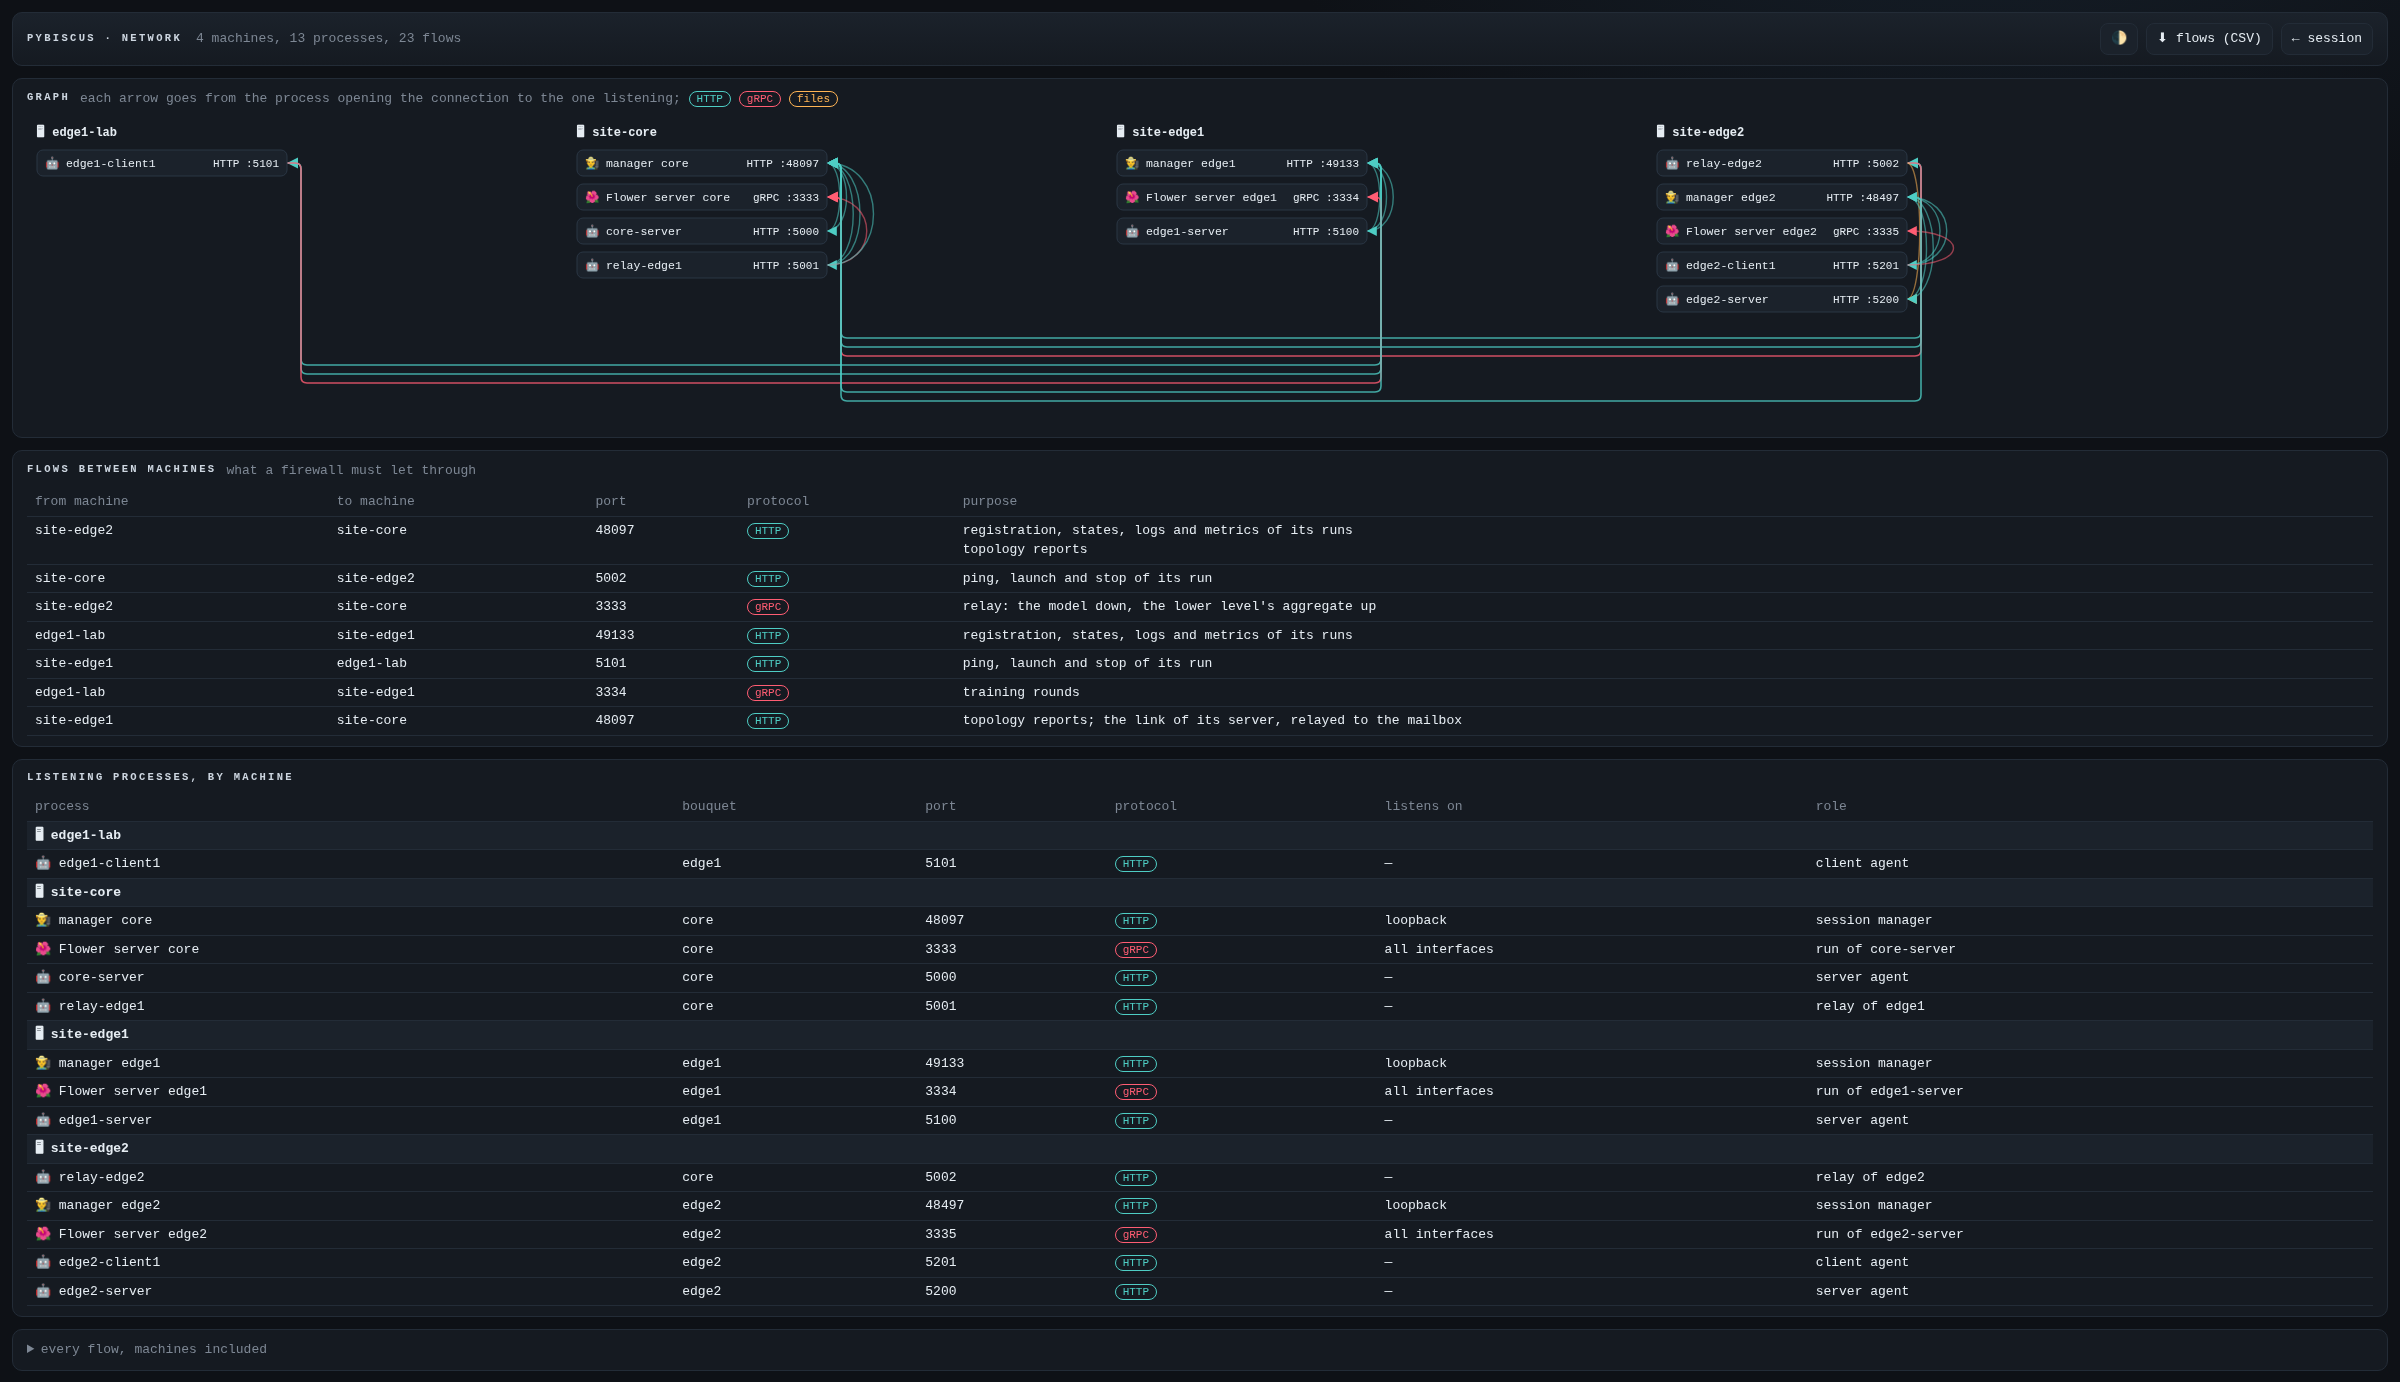
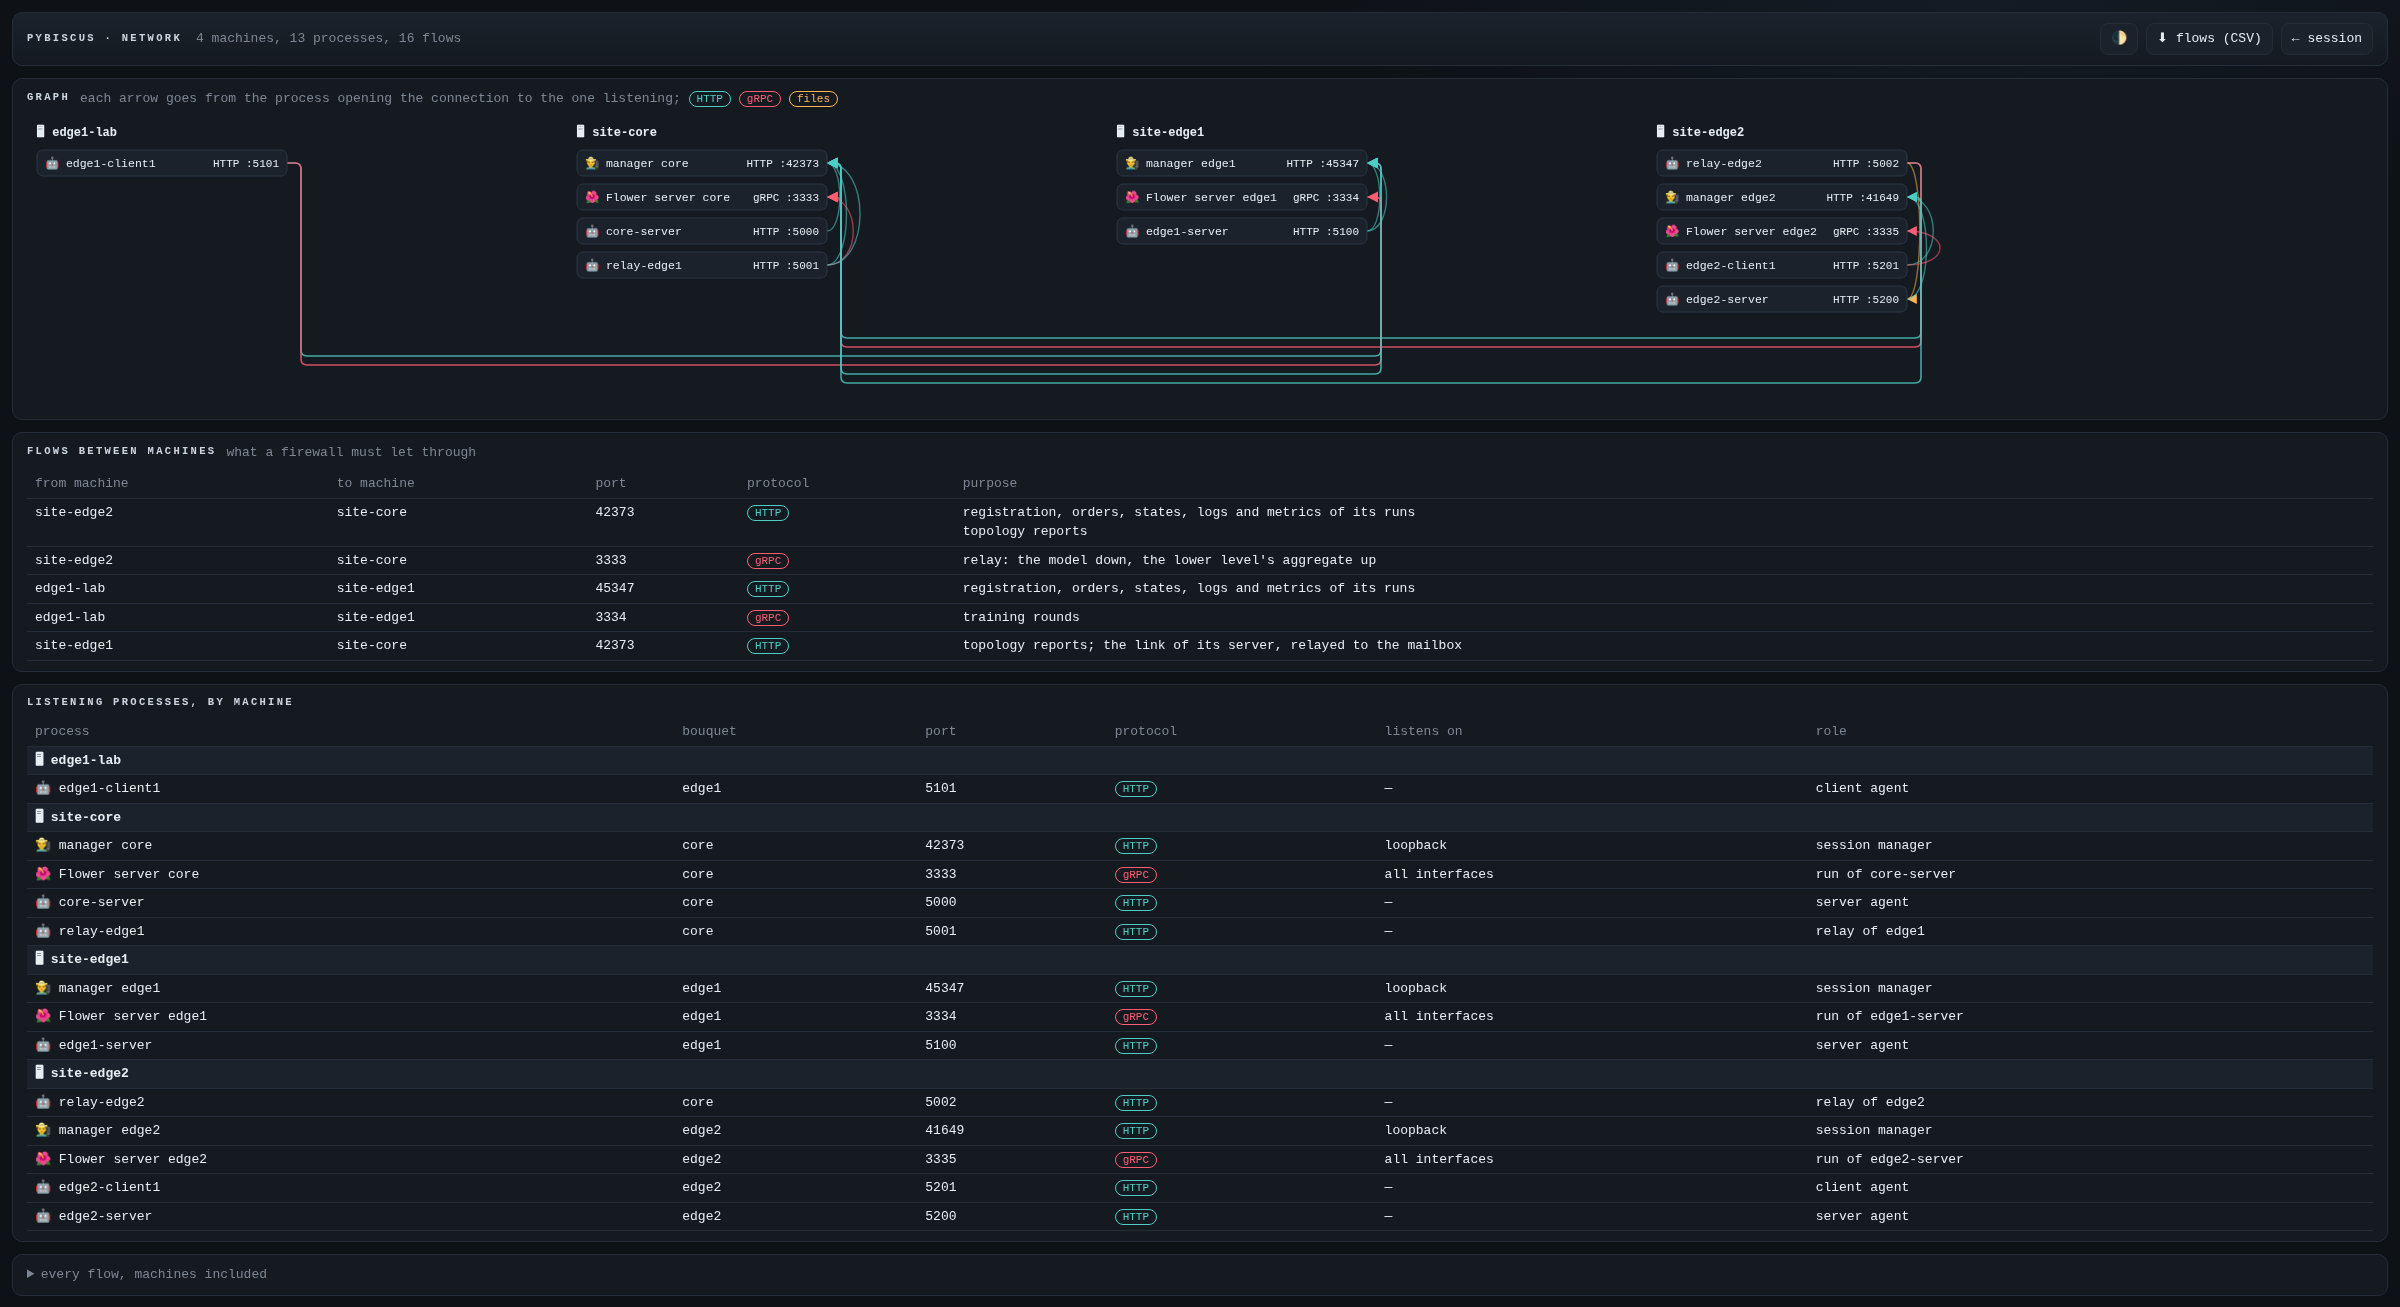
Docs: the network view's screenshots taken again (docs/images/network_machines.png with launch/doc/network_sites.py, network_session.png from the hierarchical scenario's core-network take): they still showed the flows from the manager to the agents removed on 2026-10-26 (ping, launch and stop of a r

diff --git a/Changelog.md b/Changelog.md
@@ -2,6 +2,13 @@
 
 ## Unreleased
 
+### Docs
+
+* The network view's screenshots taken again (`docs/images/network_machines.png`,
+  `network_session.png`): they still showed the flows from the manager to the agents removed on
+  2026-10-26 (ping, launch and stop of a run), so firewall openings no longer needed; 16 flows on
+  four machines instead of 23, each client site with outgoing flows only.
+
 ### Hierarchical sessions
 
 * A relay no longer needs a data section: a client's `data` is now optional for a client that
